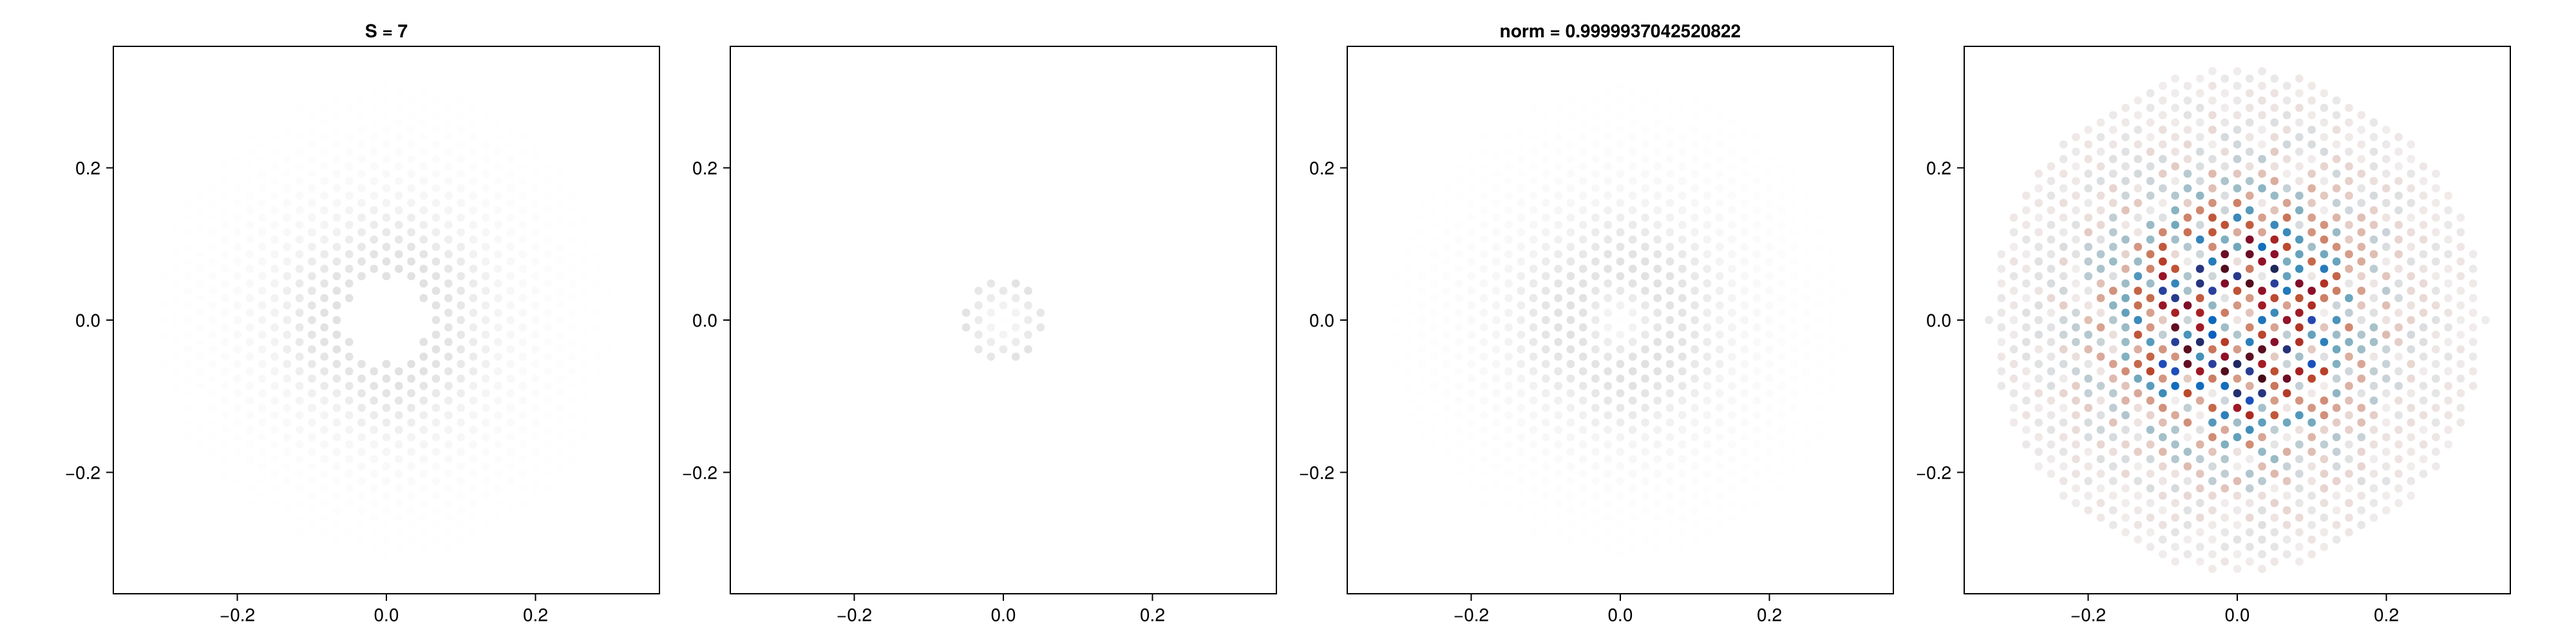
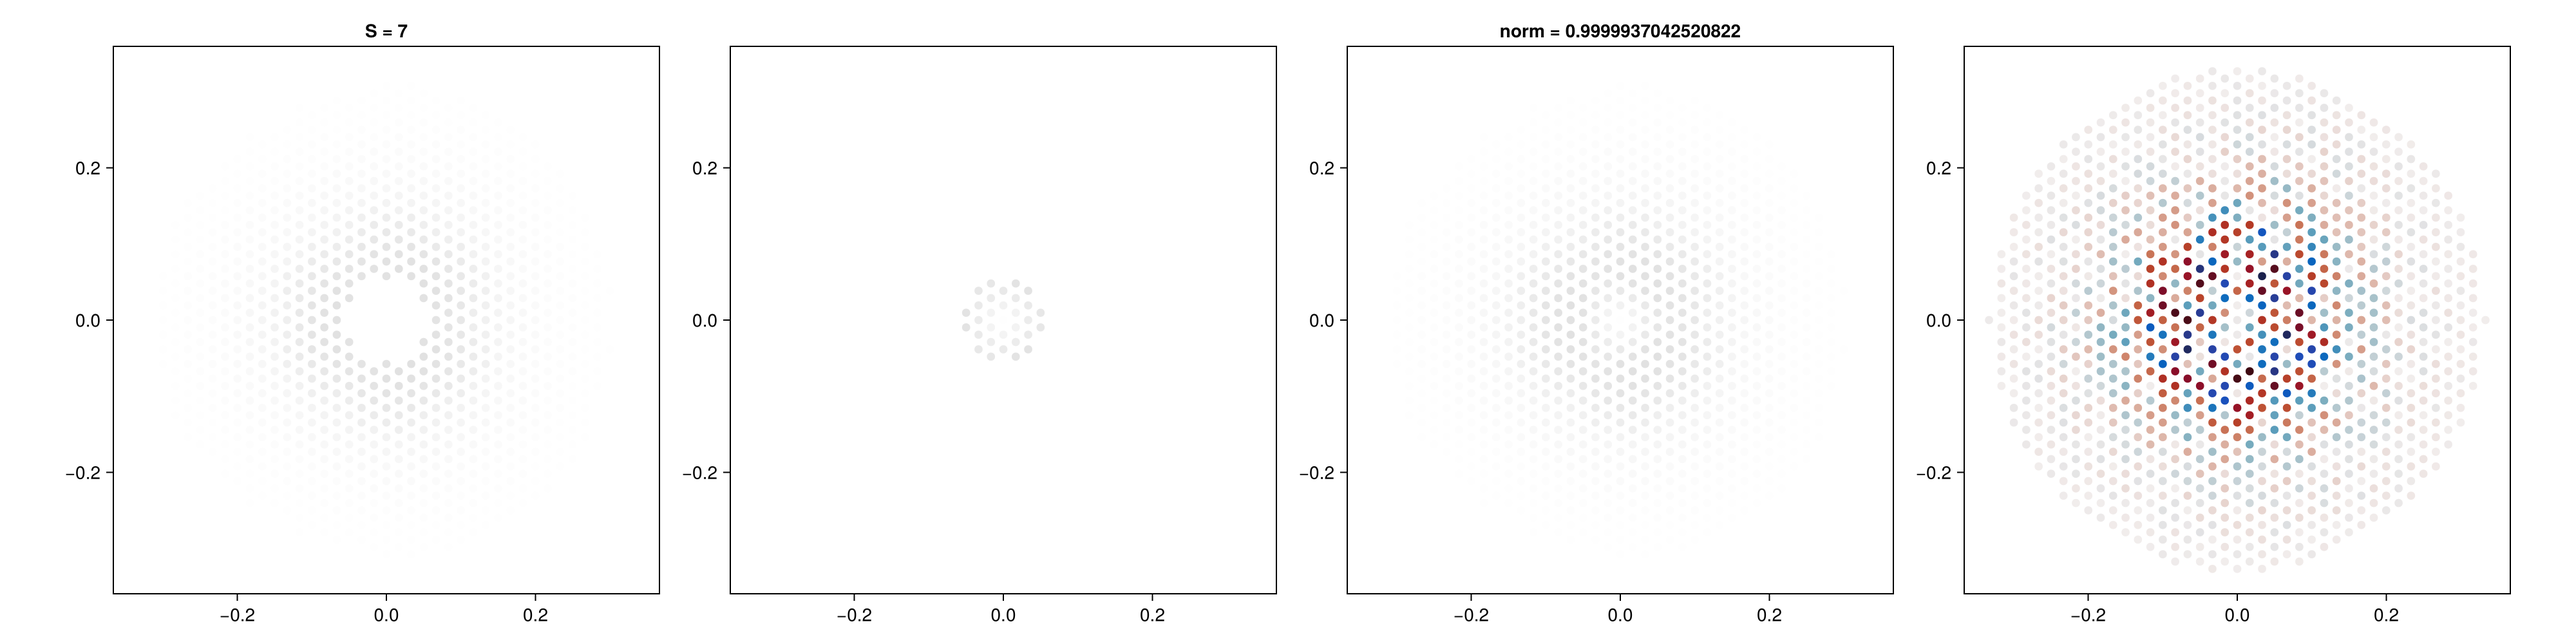
update gauge correction functionality

Changed region(s): [[0.8125, 0.248, 0.9375, 0.744]]

diff --git a/simplified/exciton-wave-function.md b/simplified/exciton-wave-function.md
@@ -70,6 +70,14 @@ we expect to see patches and holes in these two panels.
 Adding them together, we get the full wave function amplitudes
 for like-spin or unlike-spin excitons.
 
+Before doing so, be reminded that because of the random phase factors included into the single electron wave functions in DFT,
+the $A_{vc\vb{k}}$ values also have random phase factors.
+Here we assume that the lowest 1s states are "real",
+i.e. in them, no phase difference exists between different $\vb{k}$ points
+if we require the phase difference between single-electron wave functions at different $\vb{k}$ points to be small enough,
+and extract the phase factors by calculating $A^{1s}_{vc\vb{k}} / \abs{A^{1s}_{vc\vb{k}}}$.
+This is demonstrate in [this script](phase.jl).
+
 In the Q=0 calculation,
 below is an illustration of the structure of an unlike-spin A exciton:
 
@@ -77,6 +85,8 @@ below is an illustration of the structure of an unlike-spin A exciton:
 
 Note that the intensity of the $v = 1, c = 1$ transition is absent near the K valley,
 meaning that the electron constituent has a spin opposite to that of the valence band.
+The random gauge factor in this wave function is *not* eliminated,
+because the $A^{1s}$ exciton used above is the like-spin exciton, and not the unlike-spin exciton.
 
 Below is an illustration of the structure of a like-spin A exciton:
 
@@ -89,3 +99,6 @@ Below is an illustration of the structure of a B exciton:
 
 ![](exciton-0-patch-3.png)
 
+Below is an illustration of the structure of a A2p exciton:
+
+![](exciton-0-patch-6.png)
